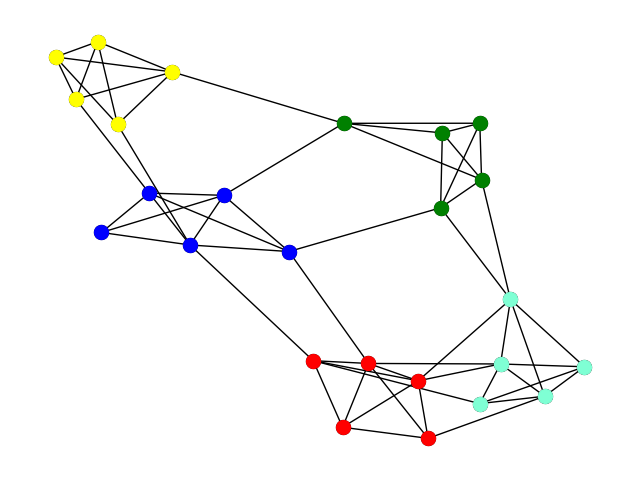
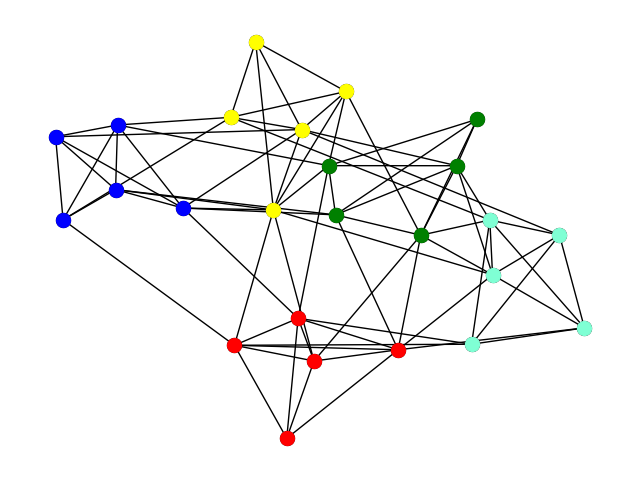
did some more stuff for presentation

diff --git a/presentation/karate/main.py b/presentation/karate/main.py
@@ -1,0 +1,37 @@
+import networkx as nx
+import networkx.algorithms.community as nx_comms
+import matplotlib.pyplot as plt
+
+
+def draw_save_graph_communities(G, algo):
+    ns = 100
+    colours = [
+        "red",
+        "blue",
+        "yellow",
+        "green",
+        "aquamarine",
+        "orange",
+        "pink",
+        "plum",
+        "purple",
+        "black",
+        "white",
+    ]
+    pos = nx.spring_layout(G, k=0.1, seed=1002931257)
+    comms = algo(G)
+
+    nx.draw(G, node_size=ns, pos=pos)
+    for i, comm in enumerate(comms):
+        nx.draw_networkx_nodes(
+            G, pos, node_size=ns, nodelist=comm, node_color=colours[i]
+        )
+
+    plt.savefig(f"{algo.__name__}.png")
+
+
+G = nx.karate_club_graph()
+
+draw_save_graph_communities(G, nx_comms.louvain_communities)
+draw_save_graph_communities(G, nx_comms.kernighan_lin_bisection)
+draw_save_graph_communities(G, nx_comms.greedy_modularity_communities)

diff --git a/presentation/main.py b/presentation/main.py
@@ -5,7 +5,7 @@ import matplotlib.pyplot as plt
 
 
 ns = 100
-p = 0.3
+p = 0.7
 
 G = nx.connected_caveman_graph(5, 5)
 
